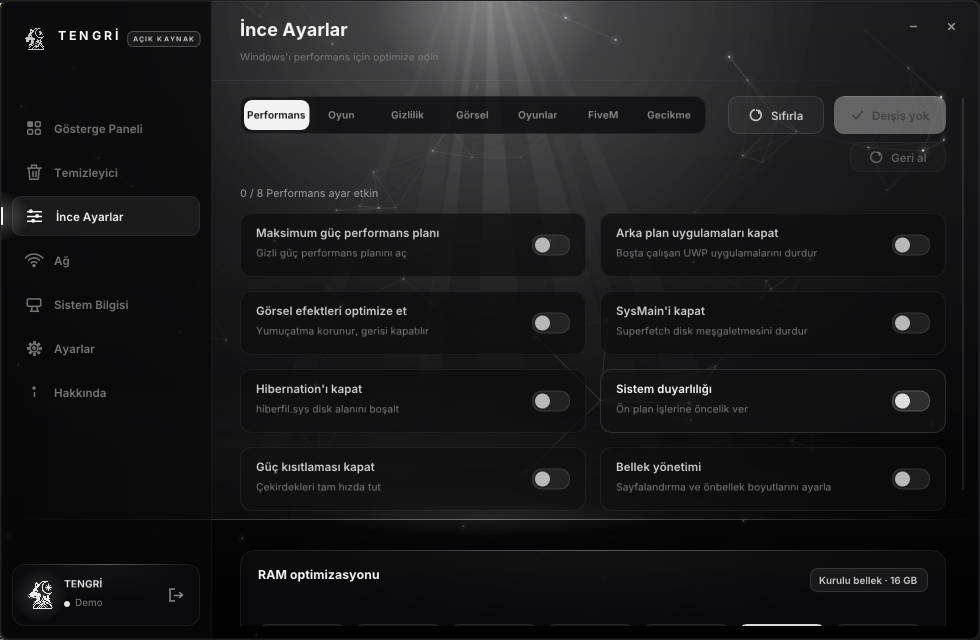
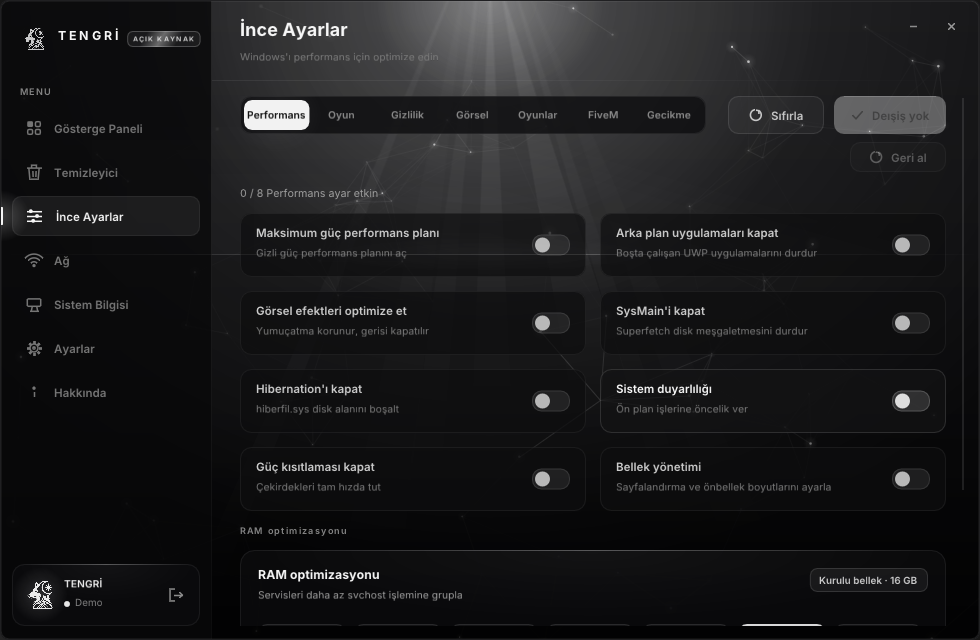
Gecikme grafigi duzeltildi; .ico basligi onarildi; kontrast gecisinin regresyonu geri alindi
Gecikme grafigi (kullanici bildirimi)
Bes ayri hata vardi, hepsi birbirine bagliydi:
- Dusey eksen sabit 60 ms idi. 138 ms'lik bir baglanti tepede sabitleniyor,
  61 ms ile 600 ms arasindaki fark tamamen yok oluyordu. Artik gercek zirveye
  gore, 50 ms'lik dilimlere yuvarlanip yumusatilarak hesaplaniyor.
- 61 kutunun 60'i hic olculmemisti ama 0 ms olarak ciziliyordu. Grafik "0 ms
  gecikme" diyordu, yani en iyi senaryoyu uyduyordu; ekrandaki duz cizginin
  sebebi buydu. Artik yalnizca dolu olan kuyruk ciziliyor.
- Jitter 10 kutudan hesaplaniyordu ve bunlarin cogu sifirdi: 138 ms'lik sabit
  bir baglantida 41 ms jitter uretiyordu. Artik yalnizca gercek ornekler
  kullaniliyor ve iki ornekten az varsa gosterilmiyor.
- Olcum araligi ~6 saniyeydi (1 sn zaman asimi + 5 sn bekleme), yani grafik
  alti dakikada doluyordu. Artik 2 saniye.
- Grafik kaymasi g_lastSample ile suruluyordu; o CPU'nun yarim saniyelik
  sayaci. Gecikme grafigi ornek basina degil yarim saniyede bir kayiyordu.
  Artik kendi zaman damgasini kullaniyor.
- Jitter satiri iki kez ciziliyordu: if blogunun disinda kalan eski bir
  satir ayni degiskeni tekrar okuyup ayni yere basiyordu.
- Sondaç olurse de frozen deger gosterilmeye devam ediyordu. Artik 12 saniye
  ornek gelmezse "olculmedi" kabul ediliyor.

Simge (kullanici bildirimi)
res\tengri.ico icindeki BITMAPINFOHEADER bozuktu: biPlanes ve biBitCount WORD
alanlari DWORD olarak yaziliyordu. Basliga dort bayt fazlalik giriyor ve
[…]

diff --git a/src/app.cpp b/src/app.cpp
@@ -96,6 +96,14 @@ namespace app
         float  g_latency    = 0.0f;
         bool   g_pingSampled = false;
         double g_lastSample = -1.0;
+
+        // Gecikme geçmişinde kaç kutunun GERÇEK örnek olduğu. Dizinin kalanı sıfır
+        // olmak "0 ms gecikme" demek değildir, "henüz ölçülmedi" demektir; ikisi
+        // grafikte tamamen farklı görünür. Sıfırları çizmek en iyi senaryoyu
+        // uyduruyordu - ekrandaki düz çizginin sebebi buydu.
+        int    g_pingFilled  = 0;
+        double g_pingSampleAt = -1.0;   // son örneğin düştüğü an
+
         float  g_health     = 0.0f;
         bool   g_optimizing = false;
         double g_optStart   = 0.0;
@@ -552,18 +560,18 @@ namespace app
                 g_health = ComputeHealth();
             }
 
-            // Gecikme geçmişi yalnızca arkasında gerçek bir örnek varken ilerletilir. Sondaç henüz
-            // yanıt vermedikçe grafik tohumlanmış değerlerde kalır; rastgele bir yürüyüş
-            // ölçüm gibi görünmesin diye.
+            // Gecikme geçmişi yalnızca arkasında gerçek bir örnek varken ilerletilir. Sondaç
+            // yanıt vermedikçe kutular boş kalır ve grafik onları ÇİZMEZ; sıfır
+            // yazıp "0 ms" diye göstermek ölçüm uydurmak olurdu.
             if (network::PollLatency(&g_latency))
             {
                 const float v = ImClamp(g_latency, 1.0f, 500.0f);
                 g_ping.erase(g_ping.begin());
                 g_ping.push_back(v);
-                g_pingSampled = true;
+                g_pingFilled  = ImMin((int)g_ping.size(), g_pingFilled + 1);
+                g_pingSampleAt = now;
+                g_pingSampled  = true;
             }
-            if (!g_pingSampled && !g_ping.empty())
-                g_ping.assign(g_ping.size(), 0.0f);
 
             if (g_waiting)
             {
@@ -808,7 +816,7 @@ namespace app
             // sol üstte marka
             ui::TextSpaced(dl, F.bold,theme::size::Body, px(22, 19), Gray(0.9f), brand::kNameA, px(theme::track::Micro));
             const float bw = ui::SpacedSize(F.bold,theme::size::Body, brand::kNameA, px(theme::track::Micro)).x;
-            ui::Text(dl, F.regular,theme::size::Body, ImVec2(px(22) + bw + px(10), px(19)), theme::ink::Tertiary,  L(SecureLoader));
+            ui::Text(dl, F.regular,theme::size::Body, ImVec2(px(22) + bw + px(10), px(19)), Gray(theme::ink::Tertiary),  L(SecureLoader));
 
             // kart (hata durumunda titrer)
             const float cw = px(380), ch = px(468);
@@ -832,7 +840,7 @@ namespace app
 
             // form alanları
             const float fx0 = cmin.x + px(32), fw = cw - px(64);
-            ui::TextSpaced(dl, F.medium,theme::size::Meta, ImVec2(fx0, cmin.y + px(188)), theme::ink::Tertiary,  L(LicenseKey), px(theme::track::Micro));
+            ui::TextSpaced(dl, F.medium,theme::size::Meta, ImVec2(fx0, cmin.y + px(188)), Gray(theme::ink::Tertiary),  L(LicenseKey), px(theme::track::Micro));
 
             const float gbw = px(88);
             ImGui::SetCursorScreenPos(ImVec2(fx0 + fw - gbw, cmin.y + px(183)));
@@ -872,18 +880,18 @@ namespace app
             {
                 char demoMsg[128];
                 snprintf(demoMsg, sizeof(demoMsg), "%s \xC2\xB7 %s", L(DemoMode), L(AnyKeyAccepted));
-                TextCentered(dl, F.regular,theme::size::Body, cx, sy, theme::ink::Tertiary,  demoMsg);
+                TextCentered(dl, F.regular,theme::size::Body, cx, sy, Gray(theme::ink::Tertiary),  demoMsg);
             }
 
             // alt bilgi
             const float fy = cmax.y - px(50);
             dl->AddLine(ImVec2(cmin.x + px(1), fy), ImVec2(cmax.x - px(1), fy), White(0.06f));
-            ui::TextSpaced(dl, F.medium,theme::size::Meta, ImVec2(fx0, fy + px(19)), theme::ink::Tertiary,  L(HWID), px(theme::track::Micro));
+            ui::TextSpaced(dl, F.medium,theme::size::Meta, ImVec2(fx0, fy + px(19)), Gray(theme::ink::Tertiary),  L(HWID), px(theme::track::Micro));
             ui::Text(dl, F.regular,theme::size::Caption, ImVec2(fx0 + px(44), fy + px(17)), Gray(0.62f), sys::Hwid().c_str());
             char ver[16];
             snprintf(ver, sizeof(ver), "v%s", kVersion);
             const ImVec2 vs = ui::TextSize(F.regular,theme::size::Caption, ver);
-            ui::Text(dl, F.regular,theme::size::Caption, ImVec2(cmax.x - px(32) - vs.x, fy + px(17)), theme::ink::Tertiary,  ver);
+            ui::Text(dl, F.regular,theme::size::Caption, ImVec2(cmax.x - px(32) - vs.x, fy + px(17)), Gray(theme::ink::Tertiary),  ver);
         }
 
         // ------------------------------------------------------------------ yükleme
@@ -915,7 +923,7 @@ namespace app
 
             char pct[8];
             snprintf(pct, sizeof(pct), "%d%%", (int)(p * 100.0f));
-            TextCentered(dl, F.medium,theme::size::Meta, c.x, c.y + px(156), theme::ink::Secondary, pct);
+            TextCentered(dl, F.medium,theme::size::Meta, c.x, c.y + px(156), Gray(theme::ink::Secondary), pct);
 
             if (t > dur + 0.3f)
                 GoTo(Screen::Main);
@@ -941,7 +949,7 @@ namespace app
 
             ui::Text(dl, F.medium,theme::size::Body, ImVec2(mn.x + px(56), mn.y + px(22)), Gray(0.60f), label);
             ui::Text(dl, F.bold,theme::size::PageTitle, ImVec2(mn.x + px(16), mn.y + px(54)), Gray(0.97f), value);
-            ui::Text(dl, F.regular,theme::size::Caption, ImVec2(mn.x + px(16), mn.y + px(88)), theme::ink::Tertiary,  sub);
+            ui::Text(dl, F.regular,theme::size::Caption, ImVec2(mn.x + px(16), mn.y + px(88)), Gray(theme::ink::Tertiary),  sub);
 
             const ImVec2 b0(mn.x + px(16), mx.y - px(15)), b1(mx.x - px(16), mx.y - px(12));
             dl->AddRectFilled(b0, b1, White(0.07f), px(2));
@@ -984,7 +992,7 @@ namespace app
             const float gw = floorf((cw - gap) * 0.64f), rh = px(236);
             ui::Card(dl, p, p + ImVec2(gw, rh));
             ui::Text(dl, F.bold,theme::size::Title, p + px(18, 16), Gray(0.96f), L(ProcessorLoad));
-            ui::Text(dl, F.regular,theme::size::Body, p + px(18, 38), theme::ink::Secondary, L(LiveLast30s));
+            ui::Text(dl, F.regular,theme::size::Body, p + px(18, 38), Gray(theme::ink::Secondary), L(LiveLast30s));
 
             const float cur = ui::Anim(ImGui::GetID("##cpucur"), g_cpu.back() * 100.0f, 6.0f);
             snprintf(v, sizeof(v), "%.0f%%", cur);
@@ -1000,7 +1008,7 @@ namespace app
             const ImVec2 o(p.x + gw + gap, p.y), osz(cw - gw - gap, rh);
             ui::Card(dl, o, o + osz);
             ui::Text(dl, F.bold,theme::size::Title, o + px(18, 16), Gray(0.96f), L(QuickOptimize));
-            ui::Text(dl, F.regular,theme::size::Body, o + px(18, 38), theme::ink::Secondary, L(OneClickEvery));
+            ui::Text(dl, F.regular,theme::size::Body, o + px(18, 38), Gray(theme::ink::Secondary), L(OneClickEvery));
 
             const float prog  = g_optimizing ? ImSaturate((float)(now - g_optStart) / 3.2f) : 0.0f;
             const float ringV = ui::Anim(ImGui::GetID("##ring"), g_optimizing ? prog : health / 100.0f, 6.0f);
@@ -1008,7 +1016,7 @@ namespace app
             ui::Ring(dl, rc, px(40), px(6), ringV);
             snprintf(v, sizeof(v), g_optimizing ? "%.0f%%" : "%.0f", g_optimizing ? prog * 100.0f : health);
             TextCentered(dl, F.bold,theme::size::PageTitle, rc.x, rc.y - px(19), Gray(0.97f), v);
-            TextCentered(dl, F.regular,theme::size::Meta, rc.x, rc.y + px(8), theme::ink::Tertiary,  g_optimizing ? L(Optimizing) : L(HealthScore));
+            TextCentered(dl, F.regular,theme::size::Meta, rc.x, rc.y + px(8), Gray(theme::ink::Tertiary),  g_optimizing ? L(Optimizing) : L(HealthScore));
 
             ImGui::SetCursorScreenPos(ImVec2(o.x + px(18), o.y + rh - px(58)));
             if (ui::Button(L(OptimizeNow), ImVec2(osz.x - px(36), px(40)), ButtonStyle::Primary, Icon::Bolt, g_optimizing))
@@ -1197,7 +1205,7 @@ namespace app
             const float  ch = px(238);
             ui::Card(dl, p0, p0 + ImVec2(cw, ch));
             ui::Text(dl, F.bold,theme::size::Title, p0 + px(18, 16), Gray(0.96f), L(RamOptimization));
-            ui::Text(dl, F.regular,theme::size::Body, p0 + px(18, 38), theme::ink::Secondary, L(RamOptDesc));
+            ui::Text(dl, F.regular,theme::size::Body, p0 + px(18, 38), Gray(theme::ink::Secondary), L(RamOptDesc));
 
             // sağ üstte kurulu bellek rozeti
             {
@@ -1374,44 +1382,81 @@ namespace app
             const float gh = px(210);
             ui::Card(dl, p, p + ImVec2(cw, gh));
             ui::Text(dl, F.bold,theme::size::Title, p + px(18, 16), Gray(0.96f), L(Latency));
+
+            // Sondaç ölmüşse donmuş bir değeri göstermek yanlış olur; böyle bir
+            // durumda "ölçülmedi" kabul edilir. Etiketten önce hesaplanır çünkü
+            // ikisi de aynı koşula bağlı.
+            const bool stale = g_pingSampleAt < 0.0 ||
+                               (now - g_pingSampleAt) > network::kLatencyStaleSec;
+            const bool have = g_pingSampled && !stale && g_pingFilled > 0;
+
             {
                 char rtLabel[128];
                 snprintf(rtLabel, sizeof(rtLabel), "%s \xC2\xB7 %s", L(RoundTrip),
-                         g_pingSampled ? "1.1.1.1" : L(Simulated));
-                ui::Text(dl, F.regular,theme::size::Body, p + px(18, 38), theme::ink::Secondary, rtLabel);
+                         have ? "1.1.1.1" : L(Simulated));
+                ui::Text(dl, F.regular,theme::size::Body, p + px(18, 38), Gray(theme::ink::Secondary), rtLabel);
             }
 
             const float cur = ui::Anim(ImGui::GetID("##pingcur"), g_latency, 6.0f);
-            // Jitter yalnızca gerçekten alınan örnekler üzerinden hesaplanır; iki örnekten az
-            // varsa değer uydurulmuş olur, bu yüzden o ana kadar gösterilmez.
-            const int window = ImMin(10, (int)g_pingSampled ? (int)g_ping.size() : 0);
+
+            // Jitter YALNIZCA gerçek örnekler üzerinden hesaplanır. Doldurulmamış
+            // kutular sıfır olduğu için, onları dahil etmek 138 ms'lik sabit bir
+            // bağlantıda 41 ms jitter üretiyordu.
+            const int window = have ? ImMin(10, g_pingFilled) : 0;
             float mean = 0.0f, var = 0.0f;
             for (int i = (int)g_ping.size() - window; i < (int)g_ping.size(); ++i)
                 mean += g_ping[i] / (float)window;
             for (int i = (int)g_ping.size() - window; i < (int)g_ping.size(); ++i)
                 var += (g_ping[i] - mean) * (g_ping[i] - mean) / (float)window;
 
-            if (g_pingSampled)
+            if (have)
             {
                 snprintf(v, sizeof(v), "%.0f ms", cur);
-                const ImVec2 cs = ui::TextSize(F.bold,theme::size::Heading, v);
-                ui::Text(dl, F.bold,theme::size::Heading, ImVec2(p.x + cw - px(18) - cs.x, p.y + px(14)), Gray(0.97f), v);
+                const ImVec2 cs = ui::TextSize(F.bold, theme::size::Heading, v);
+                ui::Text(dl, F.bold, theme::size::Heading, ImVec2(p.x + cw - px(18) - cs.x, p.y + px(14)), Gray(theme::ink::Primary), v);
 
-                snprintf(v, sizeof(v), "%s %.1f ms", L(Jitter), sqrtf(var));
-                const ImVec2 js = ui::TextSize(F.regular,theme::size::Caption, v);
-                ui::Text(dl, F.regular,theme::size::Caption, ImVec2(p.x + cw - px(18) - js.x, p.y + px(40)), theme::ink::Tertiary,  v);
+                // Tek örnekten sapma sıfırdır; "0.0 ms jitter" yazmak ölçülmüş bir
+                // kesinlik izlenimi verirdi. İki örnekten sonra gösterilir.
+                if (window >= 2)
+                {
+                    snprintf(v, sizeof(v), "%s %.1f ms", L(Jitter), sqrtf(var));
+                    const ImVec2 js = ui::TextSize(F.regular, theme::size::Caption, v);
+                    ui::Text(dl, F.regular, theme::size::Caption,
+                             ImVec2(p.x + cw - px(18) - js.x, p.y + px(40)), Gray(theme::ink::Tertiary), v);
+                }
             }
             else
             {
                 const char* pending = L(PingUnavailable);
-                const ImVec2 cs = ui::TextSize(F.medium,theme::size::Title, pending);
-                ui::Text(dl, F.medium,theme::size::Title, ImVec2(p.x + cw - px(18) - cs.x, p.y + px(18)), theme::ink::Secondary, pending);
+                const ImVec2 cs = ui::TextSize(F.medium, theme::size::Title, pending);
+                ui::Text(dl, F.medium, theme::size::Title,
+                         ImVec2(p.x + cw - px(18) - cs.x, p.y + px(18)), Gray(theme::ink::Secondary), pending);
             }
-            const ImVec2 js = ui::TextSize(F.regular,theme::size::Caption, v);
-            ui::Text(dl, F.regular,theme::size::Caption, ImVec2(p.x + cw - px(18) - js.x, p.y + px(40)), theme::ink::Tertiary,  v);
 
-            ui::Graph(dl, p + px(18, 70), p + ImVec2(cw - px(18), gh - px(18)), g_ping.data(), (int)g_ping.size(), 0.0f, 60.0f,
-                      (float)((now - g_lastSample) / 0.5));
+            // Düşey eksen gerçek zirveye göre. Sabit bir tavan (60 ms) 138 ms'lik
+            // bir bağlantıyı tepede sabitler ve 61 ms ile 600 ms arasındaki farkı
+            // tamamen yok ederdi.
+            float peak = 60.0f;
+            for (int i = (int)g_ping.size() - g_pingFilled; i < (int)g_ping.size(); ++i)
+                peak = ImMax(peak, g_ping[i]);
+            peak = ceilf(peak / 50.0f) * 50.0f;   // 50 ms'lik dilimler
+            // Yumuşatma: her tepe ekseni zıplatıp geri indirip grafiği titrettiğinden
+            // daha okunaklı.
+            const float vmax = ui::Anim(ImGui::GetID("##pingvmax"), peak, 3.0f);
+
+            // Kaydırma kendi saatinden gelir. g_lastSample CPU grafiğinin 0.5
+            // saniyelik sayacıydı; gecikme grafiği onunla sürülünce örnek başına
+            // değil, yarım saniyede bir kayıyordu.
+            const float scroll = g_pingSampleAt < 0.0
+                ? 0.0f
+                : ImSaturate((float)((now - g_pingSampleAt) / network::kLatencyIntervalSec));
+
+            // Yalnızca dolu olan kuyruk çizilir. Boş kutular sıfır olarak ekrana
+            // yansıdığı için grafik "0 ms gecikme" izlenimi veriyordu - ekrandaki
+            // düz çizgi buydu.
+            ui::Graph(dl, p + px(18, 70), p + ImVec2(cw - px(18), gh - px(18)),
+                      g_ping.data() + (g_ping.size() - g_pingFilled), g_pingFilled,
+                      0.0f, vmax, scroll);
             ImGui::Dummy(ImVec2(cw, gh));
 
             // DNS
@@ -1422,7 +1467,7 @@ namespace app
             const float dh = px(136);
             ui::Card(dl, p, p + ImVec2(cw, dh));
             ui::Text(dl, F.bold,theme::size::Title, p + px(18, 16), Gray(0.96f), L(DnsProvider));
-            ui::Text(dl, F.regular,theme::size::Body, p + px(18, 38), theme::ink::Secondary, L(ResolverUsed));
+            ui::Text(dl, F.regular,theme::size::Body, p + px(18, 38), Gray(theme::ink::Secondary), L(ResolverUsed));
 
             const float fbw = px(160);
             ImGui::SetCursorScreenPos(p + px(18, 78));
@@ -1455,7 +1500,7 @@ namespace app
                 const float ih = px(136);
                 ui::Card(dl, p, p + ImVec2(cw, ih));
                 ui::Text(dl, F.bold,theme::size::Title, p + px(18, 16), Gray(0.96f), L(Connection));
-                ui::Text(dl, F.regular,theme::size::Body, p + px(18, 38), theme::ink::Secondary, L(ActiveAdapter));
+                ui::Text(dl, F.regular,theme::size::Body, p + px(18, 38), Gray(theme::ink::Secondary), L(ActiveAdapter));
                 const float rw = cw - px(36);
                 ImGui::SetCursorScreenPos(p + px(18, 64));
                 ImGui::BeginGroup();

diff --git a/src/tray.cpp b/src/tray.cpp
@@ -35,21 +35,27 @@ namespace tray
         }
     }
 
-    bool Init(HWND hwnd)
+    bool Init(HWND hwnd, HINSTANCE instance)
     {
         g_nid = { sizeof(g_nid) };
         g_nid.hWnd = hwnd;
         g_nid.uID = 1;
 
         // Simge kaynaktan, görev çubuğu ve pencere ile aynı artwork olsun diye.
-        // LR_DEFAULTSIZE sistem ikon ölçülerini ister ve LR_SHARED verilmediği için
-        // bu modülün sahibi olduğu, kapanışta yok edilebilen bir kopya döndürür.
-        // (LR_DEFAULTCOPY Windows SDK başlıklarında yok, bu yüzden kullanılmıyor.)
-        const int cx = GetSystemMetrics(SM_CXSMICON), cy = GetSystemMetrics(SM_CYSMICON);
-        g_icon = (HICON)::LoadImageW(nullptr, MAKEINTRESOURCEW(brand::kIconId), IMAGE_ICON, cx, cy,
-                                     LR_DEFAULTSIZE);
+        // instance ZORUNLU: modül NULL iken LoadImage kimliği sistem kaynağı
+        // sanar. LR_DEFAULTSIZE sistem ikon ölçülerini ister ve LR_SHARED
+        // verilmediği için bu modülün sahibi olduğu, kapanışta yok edilebilen bir
+        // kopya döndürür. (LR_DEFAULTCOPY SDK başlıklarında yok.)
+        g_icon = (HICON)::LoadImageW(instance, MAKEINTRESOURCEW(brand::kIconId), IMAGE_ICON,
+                                     0, 0, LR_DEFAULTSIZE);
+
+        // Kaynak yine de okunamazsa kabuk JENERIK simge gösterir; sarı ünlem
+        // üçgeni değil. LoadImage başarısız olup çöp bir tutamak döndürebilir,
+        // o yüzden yedek yalnızca null için devreye girer.
         if (!g_icon)
-            g_icon = (HICON)::LoadImageW(nullptr, IDI_APPLICATION, IMAGE_ICON, cx, cy, LR_DEFAULTSIZE);
+            g_icon = (HICON)::LoadImageW(nullptr, IDI_APPLICATION, IMAGE_ICON,
+                                         GetSystemMetrics(SM_CXSMICON),
+                                         GetSystemMetrics(SM_CYSMICON), LR_DEFAULTSIZE);
 
         Add();
         g_have = g_added;

diff --git a/src/core/network.cpp b/src/core/network.cpp
@@ -1,5 +1,6 @@
 #include "network.hpp"
 #include "brand.hpp"
+#include "network.hpp"
 #include <windows.h>
 // IcmpCreateFile ve IcmpSendEcho2 yalnızca icmpapi.h içinde tanımlıdır; windows.h onları
 // içeri almadığı için bu başlık ayrıca ekleniyor.
@@ -465,9 +466,16 @@ namespace network
                     }
                 }
                 // Bekleme tek seferde değil dilimler hâlinde yapılıyor; durdurma olayı ancak
-                // böyle beklemeden fark edilir.
-                for (int i = 0; i < 20 && WaitForSingleObject(g_pingStop, 0) != WAIT_OBJECT_0; ++i)
-                    Sleep(250);
+                // böyle beklemeden fark edilir. Süre kLatencyIntervalSec'ten gelir:
+                // 250 ms dilimleriyle, tur-çevrim süresi kadarını hesaba katarak.
+                // Kaba bir 5 saniyelik bekleme koyulduğunda örnek başına ~6 s
+                // düşüyor ve 61 noktalık grafik ancak altı dakikada doluyordu.
+                const double due = GetTickCount64() / 1000.0 + kLatencyIntervalSec;
+                while (GetTickCount64() / 1000.0 < due)
+                {
+                    if (WaitForSingleObject(g_pingStop, 0) == WAIT_OBJECT_0) break;
+                    Sleep(50);
+                }
             }
             IcmpCloseHandle(hIcmp);
         }

diff --git a/src/gui/widgets.cpp b/src/gui/widgets.cpp
@@ -107,7 +107,7 @@ namespace ui
         ImDrawList* dl = ImGui::GetWindowDrawList();
         const ImVec2 pos = ImGui::GetCursorScreenPos();
         const ImVec2 sz  = SpacedSize(theme::fonts.medium,theme::size::Meta, text, px(theme::track::Micro));
-        TextSpaced(dl, theme::fonts.medium, theme::size::Meta, pos, theme::ink::Tertiary,  text, px(theme::track::Micro));
+        TextSpaced(dl, theme::fonts.medium, theme::size::Meta, pos, Gray(theme::ink::Tertiary),  text, px(theme::track::Micro));
         ImGui::Dummy(sz);
     }
 
@@ -464,7 +464,7 @@ namespace ui
         dl->PushClipRect(bb.Min, ImVec2(bb.Max.x - px(16) - rightW, bb.Max.y), true);
         Text(dl, theme::fonts.medium,theme::size::Label, ImVec2(tx, bb.Min.y + px(12)), Gray(0.78f + 0.2f * ImMax(on, hv)), label, VisibleEnd(label));
         if (desc)
-            Text(dl, theme::fonts.regular,theme::size::Body, ImVec2(tx, bb.Min.y + px(33)), theme::ink::Secondary, desc);
+            Text(dl, theme::fonts.regular,theme::size::Body, ImVec2(tx, bb.Min.y + px(33)), Gray(theme::ink::Secondary), desc);
         dl->PopClipRect();
         return pressed;
     }

diff --git a/src/gui/theme.hpp b/src/gui/theme.hpp
@@ -50,6 +50,13 @@ namespace theme
     // Kontrast jetonları. Arka plan koyu (yaklaşık rgb 0.04), WCAG oranı:
     //   0.40 -> 3.45:1   0.45 -> 4.16:1   0.48 -> 4.64:1   0.52 -> 5.33:1
     // 18pt altı her şey 4.5:1 istir; 0.48'in altı bilgi metni için yetersiz.
+    //
+    // BUNLAR float'tur, renk DEĞİLDİR. İki farklı kullanım vardır ve karıştırılırsa
+    // metin sessizce kaybolur:
+    //   ui::Text / TextSpaced / TextCentered  ImU32 bekler  -> Gray(ink::Tertiary)
+    //   ui::Label                            float bekler -> ink::Tertiary
+    // Çıplak float bir ImU32'ye dönüştürülürse 0.52 -> 0 olur, yani IM_COL32(0,0,0,0):
+    // tamamen saydam siyah. Derleyici uyarmaz, hata da vermez, metin sadece çizilmez.
     namespace ink
     {
         constexpr float Primary   = 0.96f;   // başlık, değer, vurgu

diff --git a/src/tray.hpp b/src/tray.hpp
@@ -11,7 +11,12 @@ namespace tray
     // atladığı için bir sonraki tam kareyi beklemek yerine hemen uyanabilsin.
     extern UINT kRestoreMsg;
 
-    bool Init(HWND hwnd);
+    // instance zorunludur: marka simgesi exe'nin KAYNAĞINDA (RT_GROUP_ICON 101)
+    // durur ve LoadImage yalnızca doğru modülle adresleyebilir. hInstance NULL
+    // verildiğinde kimlik bir SİSTEM kaynağı sayılır; 101 numaralı bir sistem
+    // simgesi olmadığı için çağrı çöp döner ve tepside sarı bir ünlem üçgeni
+    // belirir.
+    bool Init(HWND hwnd, HINSTANCE instance);
 
     // Kabuk ikonu reddederse false döner (Explorer yok, politika kısıtlı). Çağıran, geri
     // getirilemeyecek bir pencereyi gizlemek yerine sıradan küçültme davranışını korur.

diff --git a/src/core/network.hpp b/src/core/network.hpp
@@ -6,6 +6,15 @@
 // ilk örnek düşene kadar false döner.
 namespace network
 {
+    // İki örnek arasındaki hedef süre. Sondaç bu değere göre uyur, grafik de
+    // kaymasını bu değere göre animasyonlar; ikisi ayrı ayrı yazılırsa grafik
+    // örnekten daha sık ya da daha seyrek kayar. İkisi de buradan okur.
+    constexpr double kLatencyIntervalSec = 2.0;
+
+    // Bu kadar süredir örnek gelmezse sondaj ölmüş sayılır. Arayüz donmuş bir
+    // değeri göstermeye devam etmek, ölçtüğünü iddia etmekten daha kötüdür.
+    constexpr double kLatencyStaleSec = 12.0;
+
     void StartLatencyProbe();
     void StopLatencyProbe();
     bool PollLatency(float* ms);

diff --git a/src/main.cpp b/src/main.cpp
@@ -257,7 +257,7 @@ int WINAPI WinMain(HINSTANCE hInstance, HINSTANCE, LPSTR, int)
     logo::Init(g_device);
 
     app::Init(hwnd, corner);
-    tray::Init(hwnd);
+    tray::Init(hwnd, hInstance);
 
 #ifdef TENGRI_DEV
     // Geliştirme sürümü: odağı çalma, diğer pencerelerin arkasında kal.
